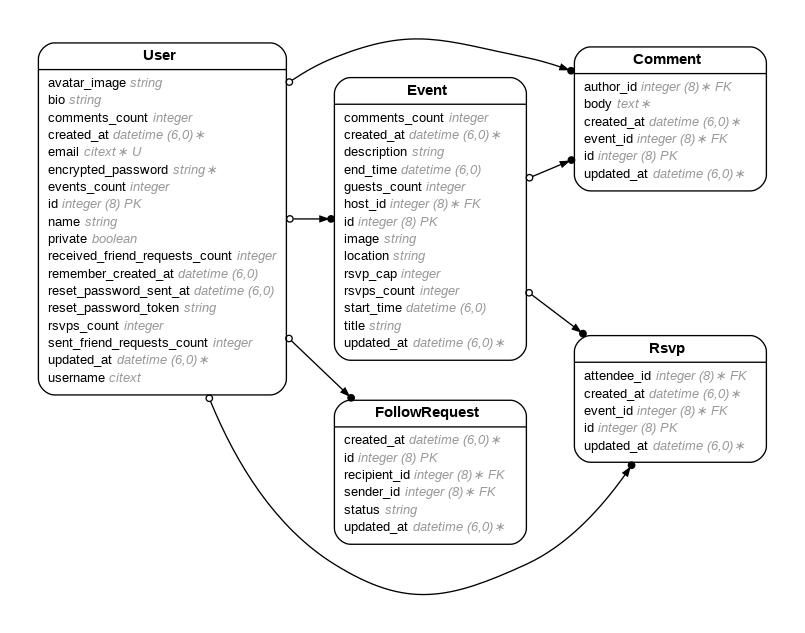
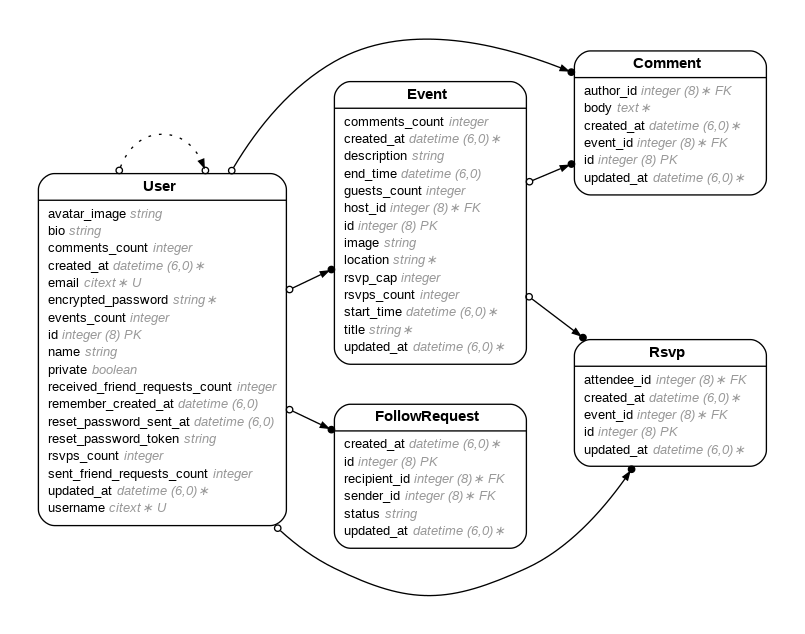
added default private to users

diff --git a/app/models/user.rb b/app/models/user.rb
@@ -10,7 +10,7 @@
 #  encrypted_password             :string           default(""), not null
 #  events_count                   :integer          default(0)
 #  name                           :string
-#  private                        :boolean
+#  private                        :boolean          default(TRUE)
 #  received_friend_requests_count :integer          default(0)
 #  remember_created_at            :datetime
 #  reset_password_sent_at         :datetime
@@ -57,5 +57,7 @@ class User < ApplicationRecord
   has_many :feed, through: :leaders, source: :own_events
 
   has_many :discover, -> { distinct }, through: :leaders, source: :rsvped_events
+
+  validates :username, presence: true, uniqueness: true
 
 end

diff --git a/db/schema.rb b/db/schema.rb
@@ -10,7 +10,7 @@
 #
 # It's strongly recommended that you check this file into your version control system.
 
-ActiveRecord::Schema[8.0].define(version: 2025_05_19_145630) do
+ActiveRecord::Schema[8.0].define(version: 2025_05_19_204300) do
   # These are extensions that must be enabled in order to support this database
   enable_extension "citext"
   enable_extension "pg_catalog.plpgsql"
@@ -210,7 +210,7 @@ ActiveRecord::Schema[8.0].define(version: 2025_05_19_145630) do
     t.datetime "remember_created_at"
     t.string "avatar_image"
     t.string "bio"
-    t.boolean "private"
+    t.boolean "private", default: true
     t.citext "username"
     t.string "name"
     t.integer "rsvps_count", default: 0

diff --git a/db/migrate/20250519204300_add_default_to_private.rb b/db/migrate/20250519204300_add_default_to_private.rb
@@ -1,0 +1,9 @@
+class AddDefaultToPrivate < ActiveRecord::Migration[8.0]
+  def change
+    change_column_default(
+      :users,
+      :private,
+      true
+    )
+  end
+end
